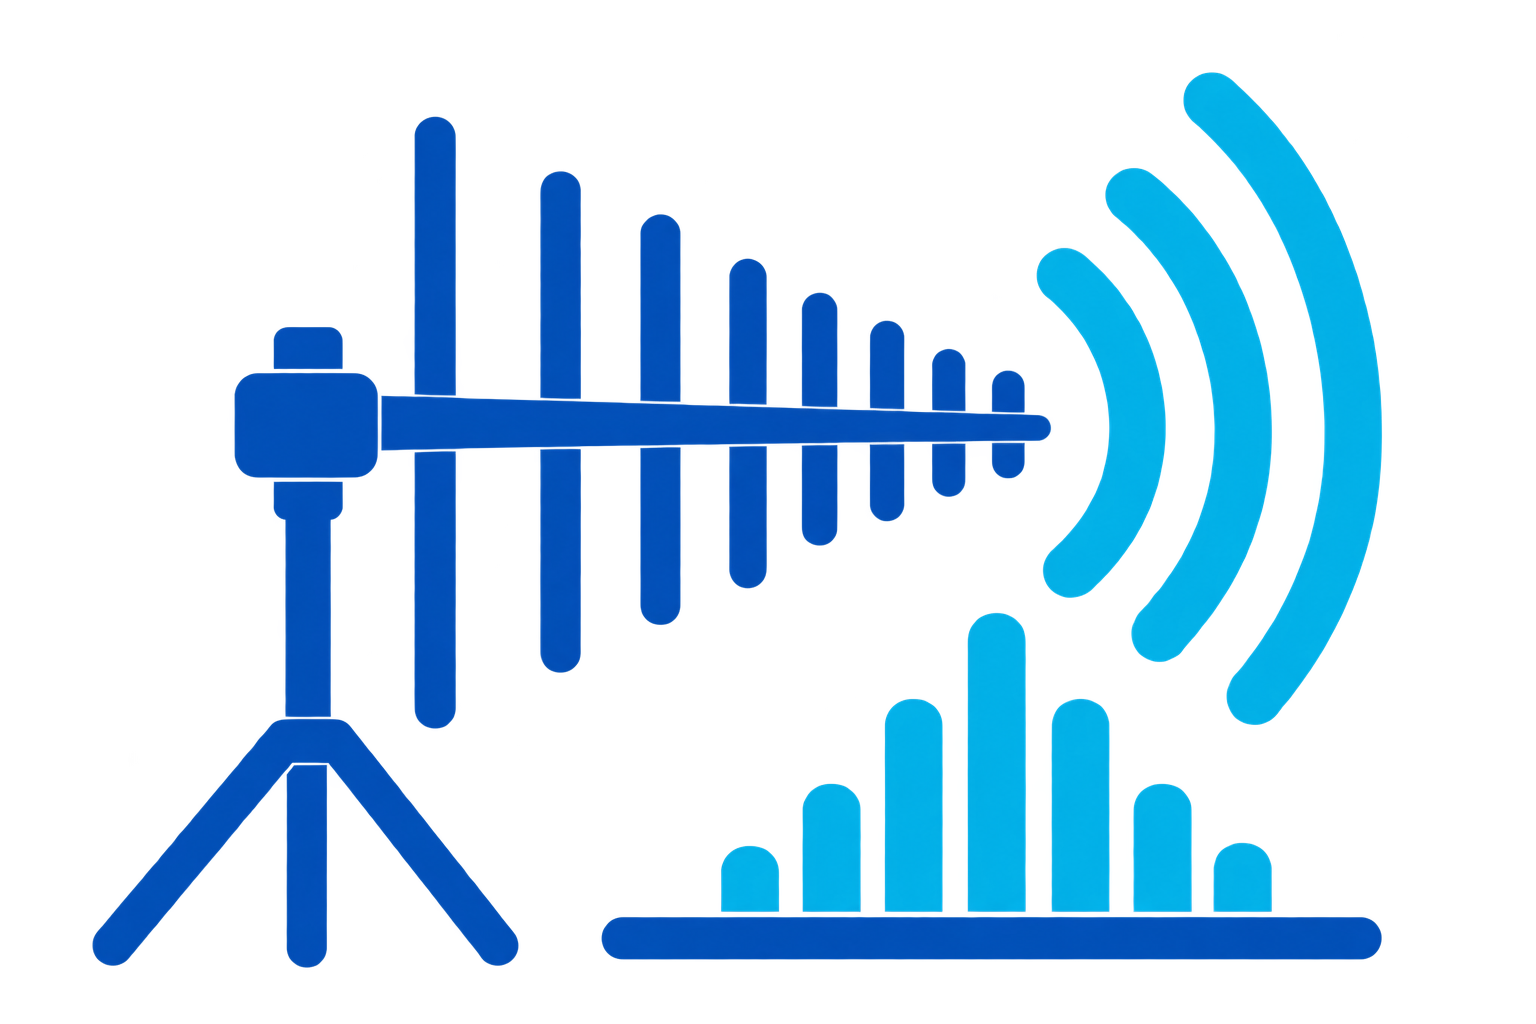
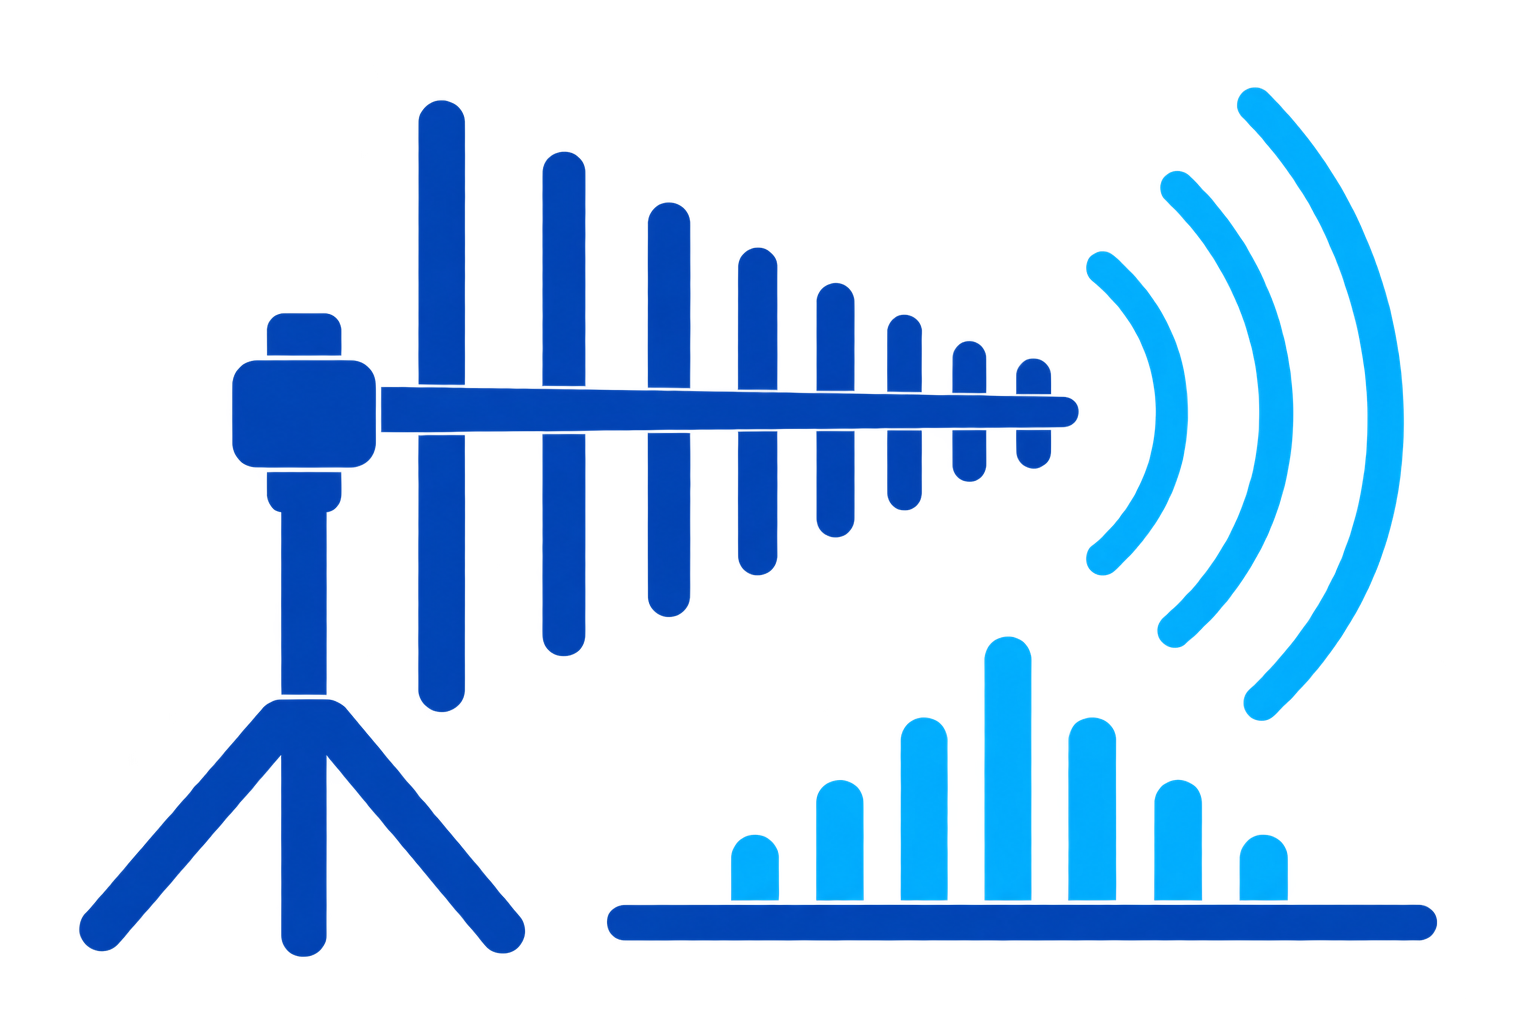
Add files via upload

Changed region(s): [[0.0312, 0.0625, 0.9375, 0.9375], [0.1875, 0.9062, 0.2188, 0.9688], [0.3438, 0.625, 0.375, 0.6562]]

diff --git a/index.html b/index.html
@@ -144,7 +144,7 @@
 
         .services-grid {
             display: grid;
-            grid-template-columns: repeat(auto-fit, minmax(320px, 1fr));
+            grid-template-columns: repeat(2, minmax(0, 1fr));
             gap: 2rem;
         }
 
@@ -172,6 +172,12 @@
 
         /* Reducción del icono RF mediante padding interno */
         #img-rf {
+            background-size: contain;
+            padding: 1.8rem;
+        }
+
+        /* Ajuste del icono de calibración para igualar su escala visual con los demás servicios */
+        #img-calibracion {
             background-size: contain;
             padding: 1.8rem;
         }
@@ -558,9 +564,17 @@
             <div class="service-card">
                 <div id="img-rf" class="service-img-contain" style="background-image: url('servicio_rf.png');"></div>
                 <div class="service-body">
-                    <h3>RADIOFRECUENCIA</h3>
+                    <h3>MEDICIONES DE RF</h3>
                     <p>Contamos con equipamiento especializado para realizar mediciones de RF en un amplio rango de frecuencias, con trazabilidad metrológica y criterios técnicos que permiten obtener resultados confiables y reproducibles, de acuerdo con las características de cada aplicación.</p>
                     <p style="margin-top: 0.8rem;">Brindamos soporte a empresas, fabricantes y desarrolladores que necesitan caracterizar o evaluar señales y dispositivos de radiofrecuencia, tanto durante las etapas de desarrollo y validación como en la evaluación de sus productos.</p>
+                </div>
+            </div>
+            <div class="service-card">
+                <div id="img-calibracion" class="service-img-contain" style="background-image: url('servicio_calibracion.png');"></div>
+                <div class="service-body">
+                    <h3>CALIBRACIÓN DE INSTRUMENTAL</h3>
+                    <p>Realizamos calibraciones y verificaciones de instrumental electrónico y de radiofrecuencia, mediante equipamiento patrón con trazabilidad metrológica y procedimientos técnicos adaptados a las características de cada instrumento y a las magnitudes evaluadas.</p>
+                    <p style="margin-top: 0.8rem;">Contamos con equipamiento calibrado para la generación y medición de magnitudes eléctricas, señales de radiofrecuencia y formas de onda, lo que nos permite brindar servicios de calibración y verificación para una amplia variedad de instrumentos utilizados en laboratorios y en actividades de ensayo, medición, desarrollo y validación.</p>
                 </div>
             </div>
         </div>
@@ -637,8 +651,8 @@
                 <div class="mosaic-caption">Generador de descargas electrostáticas (ESD)</div>
             </div>
             <div class="mosaic-item">
-                <img src="Transitorios.jpg" alt="Generador de perturbaciones transitorias">
-                <div class="mosaic-caption">Generador de perturbaciones transitorias</div>
+                <img src="Receptor.jpg" alt="Receptor de interferencias (EMI)">
+                <div class="mosaic-caption">Receptor de interferencias (EMI)</div>
             </div>
         </div>
     </section>
